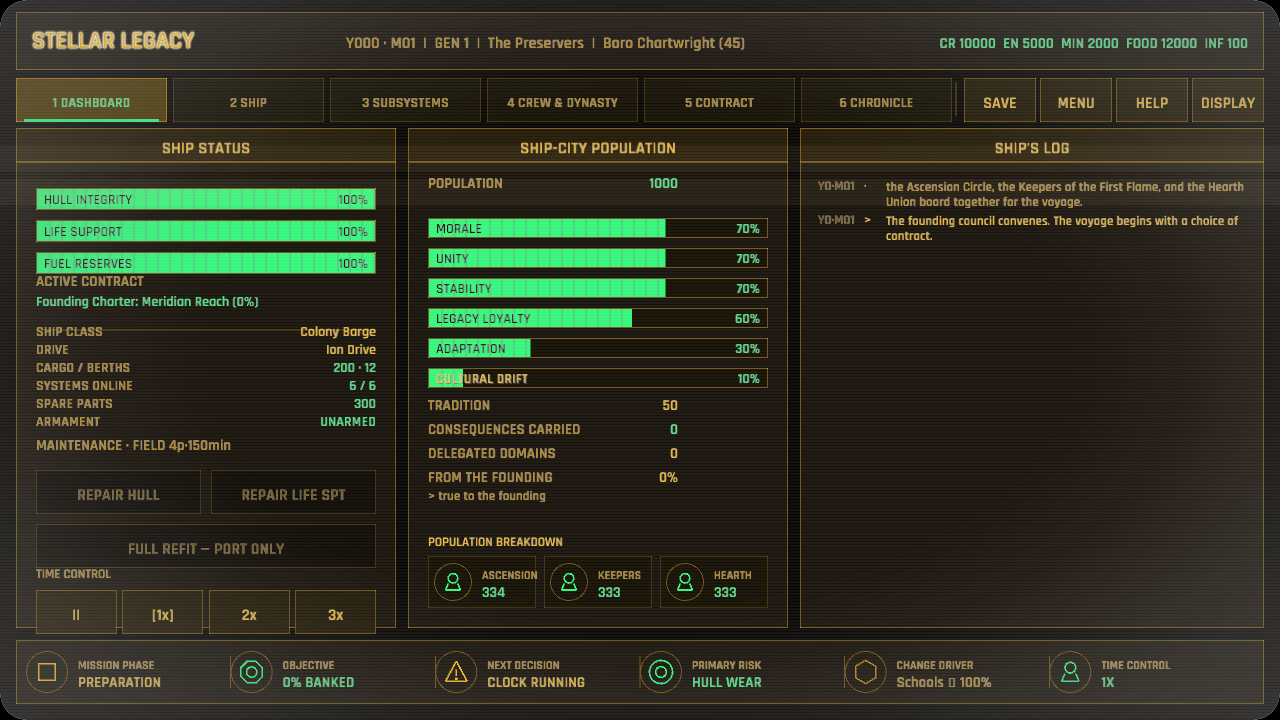
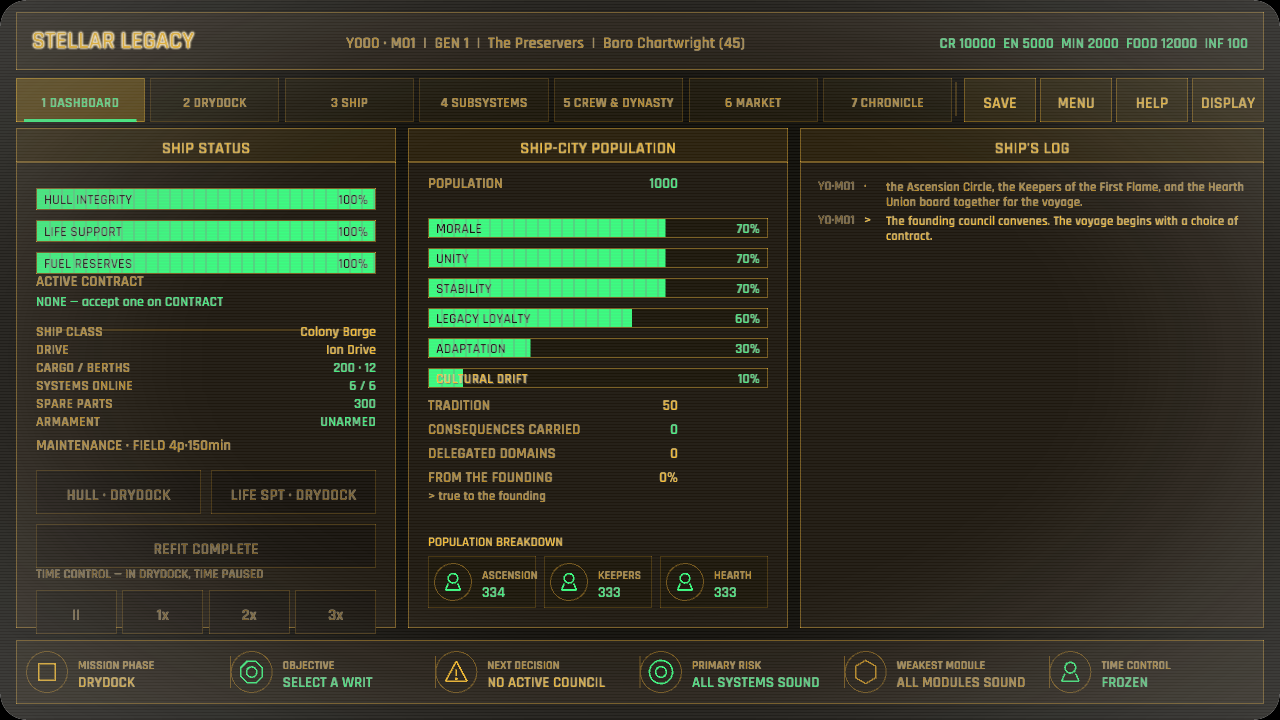
A whole ship cannot be billed for an empty refit (drydock no-op guard)
The full-refit control remained enabled on a pristine, fully stocked ship, and the resolver would take the complete credit-and-mineral price while changing nothing. A shared refit-needed rule now covers hull, life support, fuel, and spare-parts stock; the dashboard reports REFIT COMPLETE and the service rejects no-op work before charging. The test proves resources remain untouched and that even a small fuel deficit correctly reopens the refit. The default dashboard capture now also depicts the fresh drydock state its scene promises.

diff --git a/src/ui/dashboard.rs b/src/ui/dashboard.rs
@@ -2,7 +2,7 @@
 
 use crate::data::ship_components::ComponentKind;
 use crate::data::{GameConfig, GameData};
-use crate::simulation::ship::{field_repair_target, RepairKind};
+use crate::simulation::ship::{field_repair_target, full_repair_needed, RepairKind};
 use crate::state::sim::{GameSpeed, PopulationState, SimState};
 use crate::state::Screen;
 use crate::ui::{
@@ -225,15 +225,26 @@ fn draw_ship_panel(
         actions.push(UiAction::FieldRepair(RepairKind::LifeSupport));
     }
     y += REPAIR_H + REPAIR_GAP;
-    let full_label = if in_port {
+    let refit_needed = full_repair_needed(sim, &ctx.data.config);
+    let full_label = if !in_port {
+        "FULL REFIT — PORT ONLY".to_owned()
+    } else if !refit_needed {
+        "REFIT COMPLETE".to_owned()
+    } else if sim.resources.credits < repair.full_credits_cost
+        || sim.resources.minerals < repair.full_minerals_cost
+    {
+        format!(
+            "NEED {}cr·{}min",
+            repair.full_credits_cost, repair.full_minerals_cost
+        )
+    } else {
         format!(
             "FULL REFIT ({}cr·{}min)",
             repair.full_credits_cost, repair.full_minerals_cost
         )
-    } else {
-        "FULL REFIT — PORT ONLY".to_owned()
     };
     let full_ok = in_port
+        && refit_needed
         && sim.resources.credits >= repair.full_credits_cost
         && sim.resources.minerals >= repair.full_minerals_cost;
     if term_button(

diff --git a/src/simulation/ship/tests.rs b/src/simulation/ship/tests.rs
@@ -347,3 +347,30 @@ fn refuel_is_port_only_and_charges_by_the_missing_fraction() {
     // Already full: refused.
     assert!(refuel(&mut sim, &data.config).is_err());
 }
+
+#[test]
+fn a_complete_refit_cannot_charge_for_no_work() {
+    let data = GameData::load().unwrap();
+    let mut sim = SimState::new_campaign(
+        &data,
+        "preservers",
+        52,
+        &crate::state::sim::founding_faction_ids(&data),
+    );
+    sim.ship.hull_integrity = 1.0;
+    sim.ship.life_support = 1.0;
+    sim.ship.fuel = 1.0;
+    sim.ship.spare_parts = data.config.repair.full_parts_restock;
+    sim.resources.credits = 100_000;
+    sim.resources.minerals = 100_000;
+    assert!(!full_repair_needed(&sim, &data.config));
+    let before = sim.resources;
+    assert!(full_repair(&mut sim, &data.config).is_err());
+    assert_eq!(sim.resources.credits, before.credits);
+    assert_eq!(sim.resources.minerals, before.minerals);
+
+    sim.ship.fuel = 0.99;
+    assert!(full_repair_needed(&sim, &data.config));
+    full_repair(&mut sim, &data.config).unwrap();
+    assert_eq!(sim.ship.fuel, 1.0);
+}

diff --git a/src/simulation/ship.rs b/src/simulation/ship.rs
@@ -264,9 +264,19 @@ pub fn buy_parts(sim: &mut SimState, config: &GameConfig, amount: i64) -> Result
 /// whole and top the spare-parts stores back up, for credits + minerals. Only
 /// available between missions (`contract == None`) — the drydock the field kit
 /// can't stand in for.
+pub fn full_repair_needed(sim: &SimState, config: &GameConfig) -> bool {
+    sim.ship.hull_integrity < 1.0
+        || sim.ship.life_support < 1.0
+        || sim.ship.fuel < 1.0
+        || sim.ship.spare_parts < config.repair.full_parts_restock
+}
+
 pub fn full_repair(sim: &mut SimState, config: &GameConfig) -> Result<(), String> {
     if sim.contract.is_some() {
         return Err("A full refit can only be done in port, between missions.".to_owned());
+    }
+    if !full_repair_needed(sim, config) {
+        return Err("The ship is already fully refitted.".to_owned());
     }
     let cfg = &config.repair;
     let cost = ResourceDelta {

diff --git a/src/game/capture_scenes.rs b/src/game/capture_scenes.rs
@@ -639,15 +639,12 @@ impl Game {
             }
             // "gameplay" and anything else: a fresh campaign on the dashboard.
             _ => {
-                let mut sim = SimState::new_campaign(
+                let sim = SimState::new_campaign(
                     &self.data,
                     "preservers",
                     0xC0FFEE,
                     &crate::state::sim::founding_faction_ids(&self.data),
                 );
-                if let Some(template) = self.data.contracts.get("founding_colony") {
-                    sim.contract = Some(contract::start_contract(template, &sim));
-                }
                 self.state = crate::state::GameState::Gameplay(Box::new(GameplayState::new(sim)));
             }
         }
